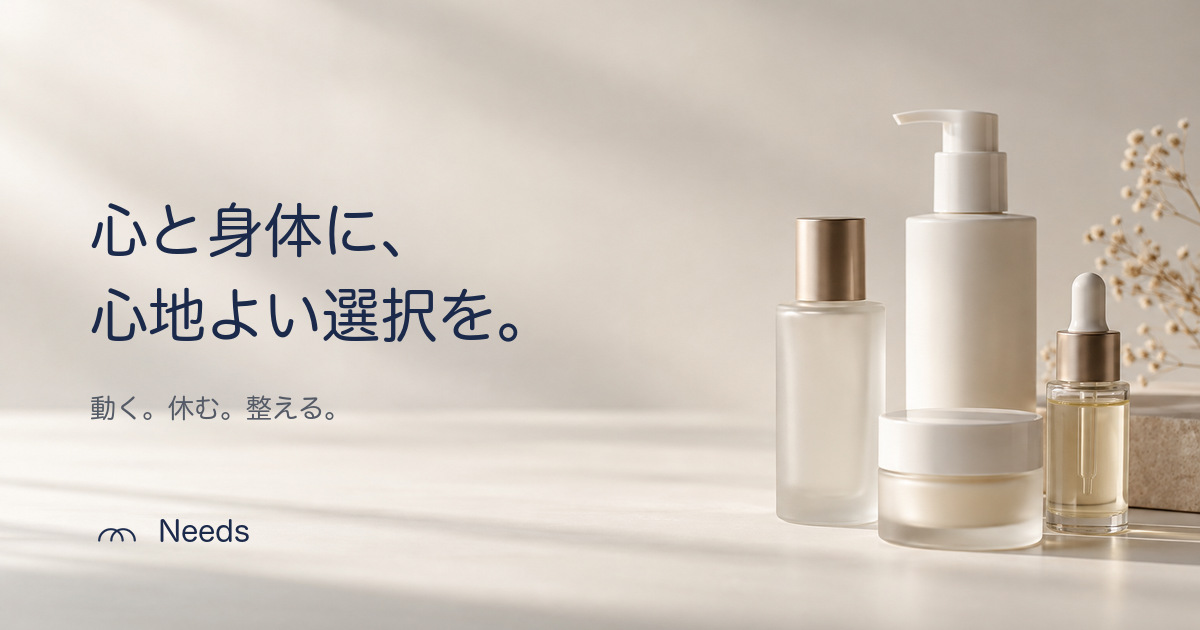
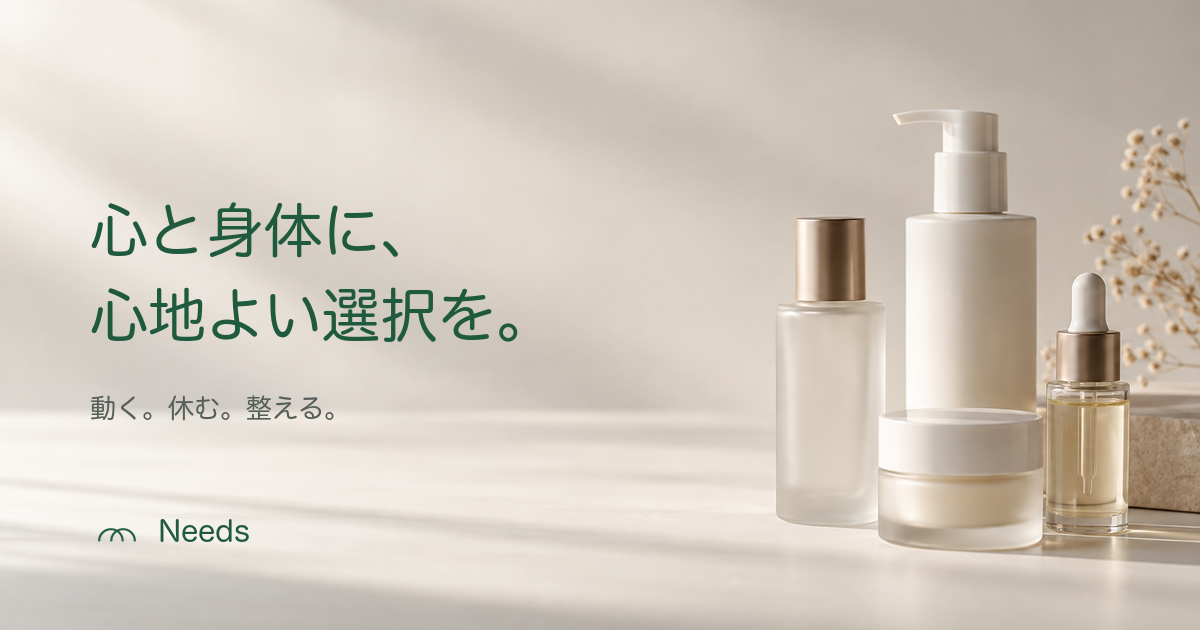
提携サロンの写真ギャラリーと店舗情報を追加、テーマ色をMedifitの緑に変更
- 店舗写真5点を横スクロールで表示（前後ボタン付き）
- 疲労回復サロンMedifitの店名・所在地・営業時間・定休日・予約方法を掲載
- 藍色からMedifitの緑に変更（ロゴ・アイコン・OGP画像も作り直し）
- 未使用になった medifit.jpg を公開対象から外す

Changed region(s): [[0.0617, 0.4524, 0.4317, 0.5429], [0.0617, 0.3317, 0.3392, 0.4222], [0.1233, 0.8143, 0.2158, 0.8746]]

diff --git a/index.html b/index.html
@@ -158,46 +158,94 @@
         <p>パーソナルトレーニングと<wbr>疲労回復の<wbr>施術を<wbr>行う<wbr>サロンと<wbr>提携しています。<wbr>日々<wbr>お客様の<wbr>身体と<wbr>向き合う<wbr>現場の<wbr>視点が、<wbr>この<wbr>ショップの<wbr>土台です。</p>
       </header>
 
+    </div>
+
+    <!-- 店舗の写真：横にスクロールして見る。実写のみ。AI生成の写真は使わない -->
+    <!-- 写真は assets/img/salon/ に置く。足すときは <li> を1つ増やす（width/height は画像の実寸） -->
+    <div class="gallery" data-gallery>
+      <ul class="gallery__track" tabindex="0" aria-label="提携サロンの写真（横にスクロールできます）">
+        <li class="gallery__item">
+          <img src="assets/img/salon/01-entrance-salon.jpg" alt="疲労回復サロンの入口。看板と花壇" width="1200" height="1600" loading="lazy">
+          <p>疲労回復サロンの<wbr>入口</p>
+        </li>
+        <li class="gallery__item">
+          <img src="assets/img/salon/02-entrance-gym.jpg" alt="パーソナルトレーニングジムの入口" width="1477" height="1108" loading="lazy">
+          <p>パーソナルトレーニングの<wbr>入口</p>
+        </li>
+        <li class="gallery__item">
+          <img src="assets/img/salon/03-training.jpg" alt="トレーニング器具が並ぶスペース" width="1200" height="1600" loading="lazy">
+          <p>トレーニングスペース</p>
+        </li>
+        <li class="gallery__item">
+          <img src="assets/img/salon/04-treatment.jpg" alt="施術用のベッドとついたて" width="1200" height="1600" loading="lazy">
+          <p>施術スペース</p>
+        </li>
+        <li class="gallery__item">
+          <img src="assets/img/salon/05-treatment.jpg" alt="窓のある明るい施術スペース" width="1200" height="1600" loading="lazy">
+          <p>施術スペース</p>
+        </li>
+      </ul>
+      <div class="gallery__nav wrap">
+        <button type="button" class="gallery__btn" data-dir="-1" aria-label="前の写真">
+          <svg viewBox="0 0 24 24" aria-hidden="true"><path d="M15 5 8 12l7 7"/></svg>
+        </button>
+        <button type="button" class="gallery__btn" data-dir="1" aria-label="次の写真">
+          <svg viewBox="0 0 24 24" aria-hidden="true"><path d="m9 5 7 7-7 7"/></svg>
+        </button>
+      </div>
+    </div>
+
+    <div class="wrap">
       <div class="salon__grid">
-        <!-- 実写のみ。AI生成の写真は使わない -->
-        <div class="salon__photos">
-          <figure class="photo photo--main">
-            <img src="assets/img/medifit.jpg" alt="提携サロンの外観。「疲労回復サロン」の看板と入口" width="1170" height="1285" loading="lazy">
-          </figure>
-          <!-- 店内・施術の写真が届いたら、下のコメントを外してファイル名を合わせる（2点とも横位置を想定）
-          <figure class="photo">
-            <img src="assets/img/salon-interior.jpg" alt="提携サロンの店内" width="1200" height="800" loading="lazy">
-          </figure>
-          <figure class="photo">
-            <img src="assets/img/salon-treatment.jpg" alt="提携サロンでの施術の様子" width="1200" height="800" loading="lazy">
-          </figure>
-          -->
-        </div>
+        <ul class="salon__points">
+          <li>
+            <h3>商品選びに、<wbr>専門家が<wbr>関わっています</h3>
+            <p>トレーナー・<wbr>セラピストが、<wbr>日々の<wbr>施術や<wbr>トレーニングで<wbr>感じている<wbr>ことを<wbr>もとに、<wbr>ショップで<wbr>扱う<wbr>商品選びに<wbr>関わっています。</p>
+          </li>
+          <li>
+            <!-- TODO: 確認 店舗で試せる・買えるのは全商品か一部か -->
+            <h3>店舗でも、<wbr>試して<wbr>選べます</h3>
+            <p>サロンでは、<wbr>ショップで<wbr>扱う<wbr>商品を<wbr>実際に<wbr>手に<wbr>取って<wbr>試したり、<wbr>購入したりできます。</p>
+          </li>
+        </ul>
 
-        <div class="salon__text">
-          <ul class="salon__points">
-            <li>
-              <h3>商品選びに、<wbr>専門家が<wbr>関わっています</h3>
-              <p>トレーナー・<wbr>セラピストが、<wbr>日々の<wbr>施術や<wbr>トレーニングで<wbr>感じている<wbr>ことを<wbr>もとに、<wbr>ショップで<wbr>扱う<wbr>商品選びに<wbr>関わっています。</p>
-            </li>
-            <li>
-              <!-- TODO: 確認 店舗で試せる・買えるのは全商品か一部か -->
-              <h3>店舗でも、<wbr>試して<wbr>選べます</h3>
-              <p>サロンでは、<wbr>ショップで<wbr>扱う<wbr>商品を<wbr>実際に<wbr>手に<wbr>取って<wbr>試したり、<wbr>購入したりできます。</p>
-            </li>
-          </ul>
-
-          <!-- TODO: 差し替え 店舗情報を確定値に -->
-          <dl class="salon__info">
-            <div><dt>店名</dt><dd class="tbd">確定後に<wbr>掲載</dd></div>
-            <div><dt>所在地</dt><dd class="tbd">確定後に<wbr>掲載</dd></div>
-            <div><dt>営業時間</dt><dd class="tbd">確定後に<wbr>掲載</dd></div>
-            <div><dt>メニュー</dt><dd>パーソナルトレーニング／疲労回復の<wbr>施術</dd></div>
-          </dl>
-        </div>
+        <dl class="salon__info">
+          <div><dt>店名</dt><dd>疲労回復サロンMedifit</dd></div>
+          <div><dt>所在地</dt><dd>〒849-0922<br>佐賀県佐賀市高木瀬東2丁目15-2 102号<br><a class="salon__map" href="https://www.google.com/maps/search/?api=1&amp;query=%E4%BD%90%E8%B3%80%E7%9C%8C%E4%BD%90%E8%B3%80%E5%B8%82%E9%AB%98%E6%9C%A8%E7%80%AC%E6%9D%B12%E4%B8%81%E7%9B%AE15-2" target="_blank" rel="noopener">地図を<wbr>開く<wbr>（Googleマップ）</a></dd></div>
+          <div><dt>営業時間</dt><dd>9:00〜17:00</dd></div>
+          <div><dt>定休日</dt><dd>不定休</dd></div>
+          <div><dt>予約</dt><dd>完全予<wbr>約制</dd></div>
+          <div><dt>メニュー</dt><dd>パーソナルトレーニング／疲労回復の<wbr>施術</dd></div>
+        </dl>
       </div>
     </div>
   </section>
+
+  <script>
+    // 前後ボタンで1枚ずつ送る。端まで来たらボタンを無効にする
+    document.querySelectorAll("[data-gallery]").forEach(function (gallery) {
+      var track = gallery.querySelector(".gallery__track");
+      var buttons = gallery.querySelectorAll(".gallery__btn");
+      function step() {
+        var item = track.querySelector(".gallery__item");
+        var gap = parseFloat(getComputedStyle(track).columnGap) || 0;
+        return item ? item.getBoundingClientRect().width + gap : track.clientWidth;
+      }
+      function update() {
+        var max = track.scrollWidth - track.clientWidth - 2;
+        buttons[0].disabled = track.scrollLeft <= 2;
+        buttons[1].disabled = track.scrollLeft >= max;
+      }
+      buttons.forEach(function (btn) {
+        btn.addEventListener("click", function () {
+          track.scrollBy({ left: step() * Number(btn.dataset.dir), behavior: "smooth" });
+        });
+      });
+      track.addEventListener("scroll", update, { passive: true });
+      window.addEventListener("resize", update);
+      update();
+    });
+  </script>
 
   <!-- はじめた理由 -->
   <section id="reason" class="reason" aria-labelledby="reason-title">

diff --git a/assets/css/style.css b/assets/css/style.css
@@ -1,19 +1,20 @@
 /* ==========================================================================
    Needs — セルフケアのセレクトショップ
-   色: 生成り(paper) と 藍(ink) の2色が軸。ink の面は「はじめた理由」だけ。
+   色: 生成り(paper) と Medifit の深い緑(ink) の2色が軸。ink の面は「はじめた理由」だけ。
+        緑は店舗看板から採った色。accent（看板の明るい緑寄り）は「営業中」表示だけに使う。
    書体: Zen Maru Gothic 1書体。アイコンの丸い線端と揃える。
    ========================================================================== */
 
 :root {
-  --paper: #F6F5F0;
-  --paper-2: #ECE9E1;
-  --ink: #1B2A4A;
-  --text: #2B303A;
-  --muted: #62676F;
-  --line: #D8D4CA;
-  --moss: #5F7052;
-  --on-ink: #EEF0F3;
-  --on-ink-muted: #B9C0CC;
+  --paper: #F5F6F1;
+  --paper-2: #EAECE4;
+  --ink: #1F5A3E;
+  --accent: #087A40;
+  --text: #2A302C;
+  --muted: #5E665F;
+  --line: #D5D8CE;
+  --on-ink: #F1F5F2;
+  --on-ink-muted: #BFD3C8;
 
   --font: "Zen Maru Gothic", "Hiragino Maru Gothic ProN", "BIZ UDPGothic", "Hiragino Sans", "Yu Gothic", sans-serif;
 
@@ -233,8 +234,8 @@ a { color: inherit; }
     position: absolute;
     inset: 0;
     z-index: -1;
-    background: linear-gradient(90deg, rgba(246, 245, 240, .88) 0%, rgba(246, 245, 240, .6) 48%, rgba(246, 245, 240, 0) 78%),
-                linear-gradient(0deg, rgba(246, 245, 240, .92) 0%, rgba(246, 245, 240, 0) 36%);
+    background: linear-gradient(90deg, rgba(245, 246, 241, .88) 0%, rgba(245, 246, 241, .6) 48%, rgba(245, 246, 241, 0) 78%),
+                linear-gradient(0deg, rgba(245, 246, 241, .92) 0%, rgba(245, 246, 241, 0) 36%);
   }
   .hero__body { padding-top: calc(104px + env(safe-area-inset-top, 0px)); }
   .hero__catch { align-self: start; margin: 8vh 0 0; font-size: clamp(1.875rem, 0.9rem + 4.6vw, 2.5rem); letter-spacing: 0.06em; }
@@ -399,27 +400,64 @@ a { color: inherit; }
   grid-template-columns: minmax(0, 1fr) minmax(0, 1fr);
   gap: clamp(40px, 6vw, 96px);
   align-items: start;
+  margin-top: clamp(48px, 6vw, 80px);
 }
 
-.salon__photos {
-  display: grid;
-  grid-template-columns: 1fr 1fr;
-  gap: clamp(8px, 1.2vw, 16px);
+/* 店舗写真のギャラリー：横スクロール。左端は本文の左端にそろえ、右は画面の端まで流す */
+.gallery {
+  --edge: max(var(--gutter), calc((100vw - 1160px) / 2 + var(--gutter)));
 }
-
-.photo {
-  aspect-ratio: 4 / 3;
-  overflow: hidden;
+.gallery__track {
+  display: flex;
+  gap: clamp(12px, 1.6vw, 20px);
+  margin: 0;
+  padding: 0 var(--edge) 12px;
+  overflow-x: auto;
+  scroll-snap-type: x mandatory;
+  scroll-padding-inline: var(--edge);
+  overscroll-behavior-x: contain;
+  scrollbar-width: thin;
+  scrollbar-color: var(--line) transparent;
+}
+.gallery__track:focus-visible { outline-offset: -2px; }
+.gallery__item { flex: none; scroll-snap-align: start; }
+.gallery__item img {
+  width: auto;
+  height: clamp(300px, 36vw, 520px);
+  /* 横長の写真がスマホの画面幅を超えないように。超える分は左右を少し切る */
+  max-width: calc(100vw - var(--gutter) * 2 - 32px);
+  object-fit: cover;
   border-radius: 4px;
   background: var(--paper-2);
 }
-/* 外観写真は縦に近い比率なので、切らずにそのまま見せる */
-.photo--main { grid-column: 1 / -1; aspect-ratio: 1170 / 1285; }
-.photo img {
-  width: 100%;
-  height: 100%;
-  object-fit: cover;
+.gallery__item p {
+  margin-top: 10px;
+  color: var(--muted);
+  font-size: var(--fs-sm);
 }
+
+.gallery__nav {
+  display: flex;
+  justify-content: flex-end;
+  gap: 8px;
+  margin-top: 16px;
+}
+.gallery__btn {
+  display: grid;
+  place-items: center;
+  width: 44px;
+  height: 44px;
+  padding: 0;
+  border: 1px solid var(--ink);
+  border-radius: 50%;
+  background: transparent;
+  color: var(--ink);
+  cursor: pointer;
+  transition: background-color .2s, color .2s, opacity .2s;
+}
+.gallery__btn svg { width: 20px; height: 20px; fill: none; stroke: currentColor; stroke-width: 1.6; stroke-linecap: round; stroke-linejoin: round; }
+.gallery__btn:hover:not(:disabled) { background: var(--ink); color: var(--on-ink); }
+.gallery__btn:disabled { opacity: .3; cursor: default; }
 
 .salon__points li + li { margin-top: 36px; }
 .salon__points h3 { font-size: var(--fs-md); }
@@ -439,12 +477,11 @@ a { color: inherit; }
 
 @media (max-width: 860px) {
   .salon__grid { grid-template-columns: 1fr; }
-  .salon__photos { max-width: 560px; }
-  .salon__text { max-width: var(--measure); }
+  .salon__points { max-width: var(--measure); }
 }
 
 /* --------------------------------------------------------------------------
-   はじめた理由（藍の面）
+   はじめた理由（緑の面）
    -------------------------------------------------------------------------- */
 .reason {
   padding-block: var(--section);
@@ -461,7 +498,7 @@ a { color: inherit; }
   gap: clamp(24px, 6vw, 96px);
   margin-top: clamp(56px, 8vw, 104px);
   padding-top: clamp(40px, 5vw, 64px);
-  border-top: 1px solid rgba(238, 240, 243, .22);
+  border-top: 1px solid rgba(241, 245, 242, .24);
 }
 .reason__block h3 { font-size: clamp(1.25rem, 1rem + 0.6vw, 1.5rem); line-height: 1.8; }
 .reason__block .prose { color: var(--on-ink-muted); }
@@ -629,7 +666,7 @@ a { color: inherit; }
   border: 1.5px solid currentColor;
   border-radius: 50%;
 }
-.status--open { color: var(--moss); }
+.status--open { color: var(--accent); }
 .status--open::before { background: currentColor; }
 
 @media (max-width: 620px) {
@@ -718,4 +755,12 @@ a { color: inherit; }
   .vision__list li { font-size: 1.1875rem; letter-spacing: 0.03em; }
   .verb { flex-direction: column; align-items: flex-start; padding-inline: 0; }
   .verb__text { text-align: left; }
+}
+
+.salon__map {
+  display: inline-block;
+  margin-top: 4px;
+  color: var(--ink);
+  font-size: var(--fs-sm);
+  text-underline-offset: 5px;
 }
